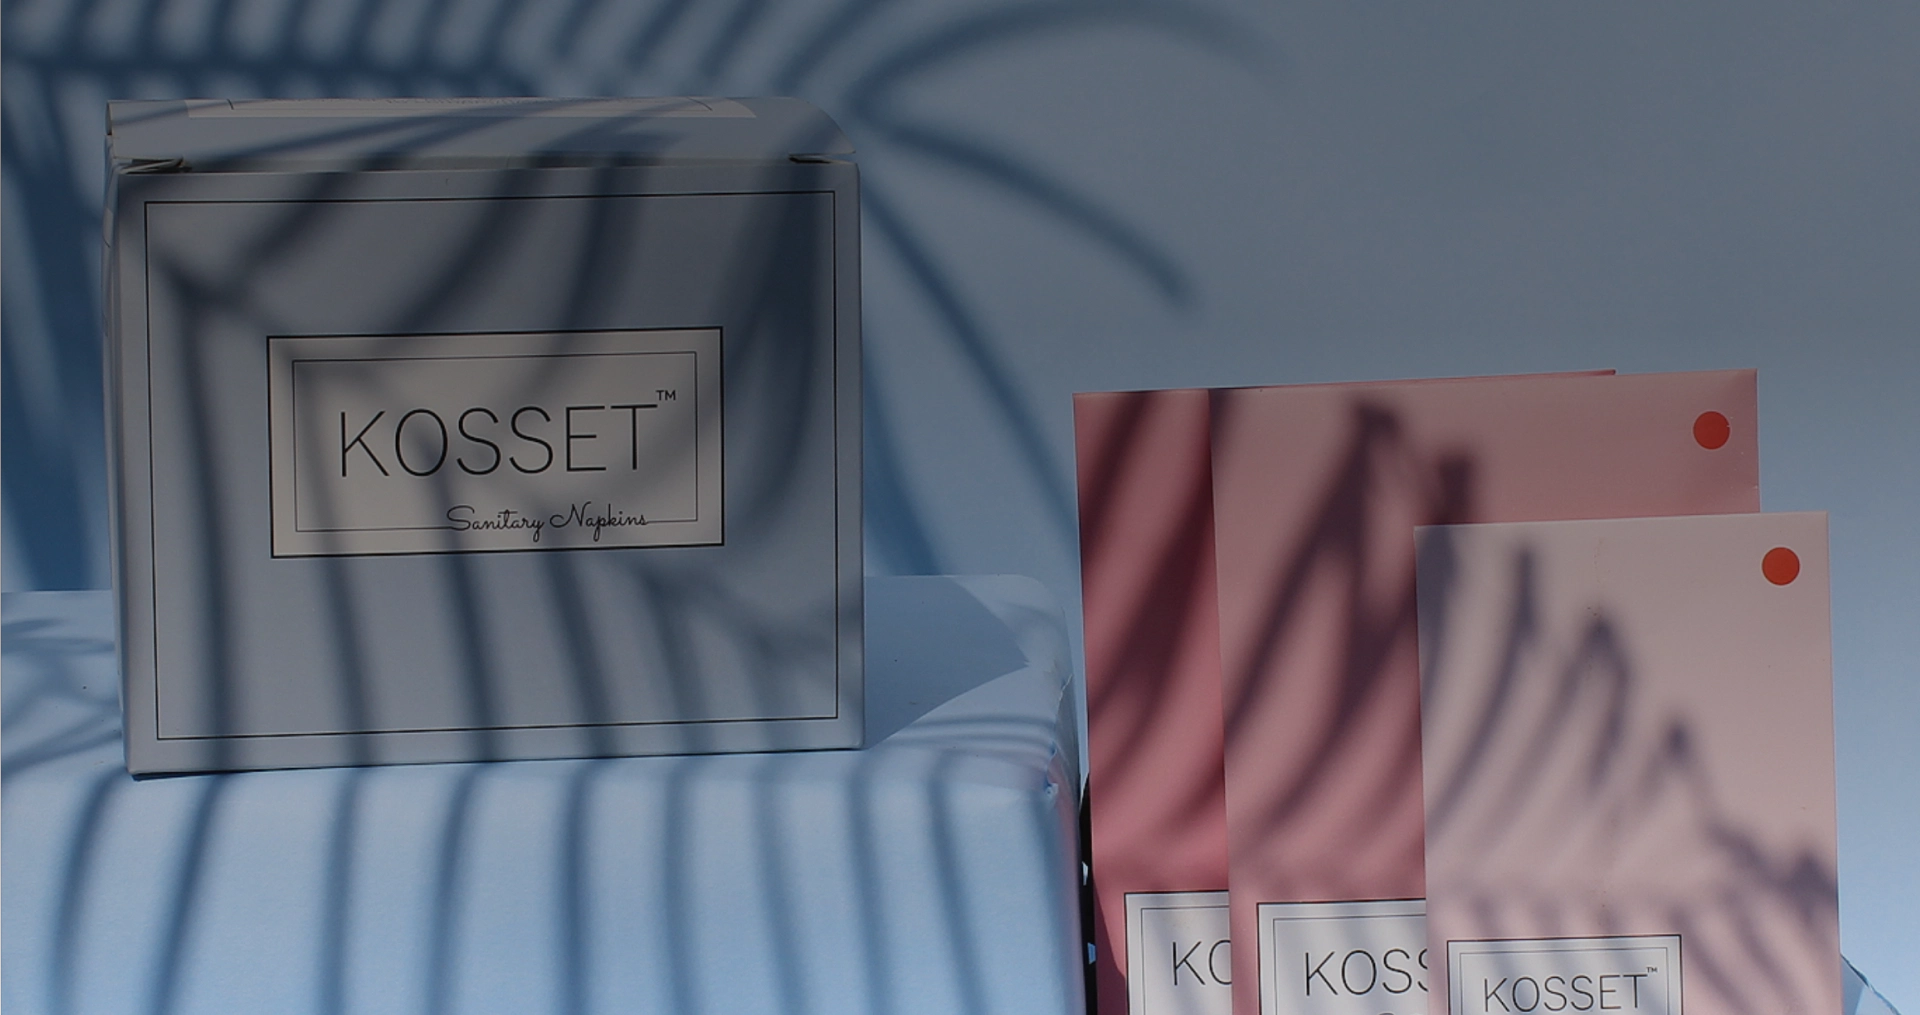
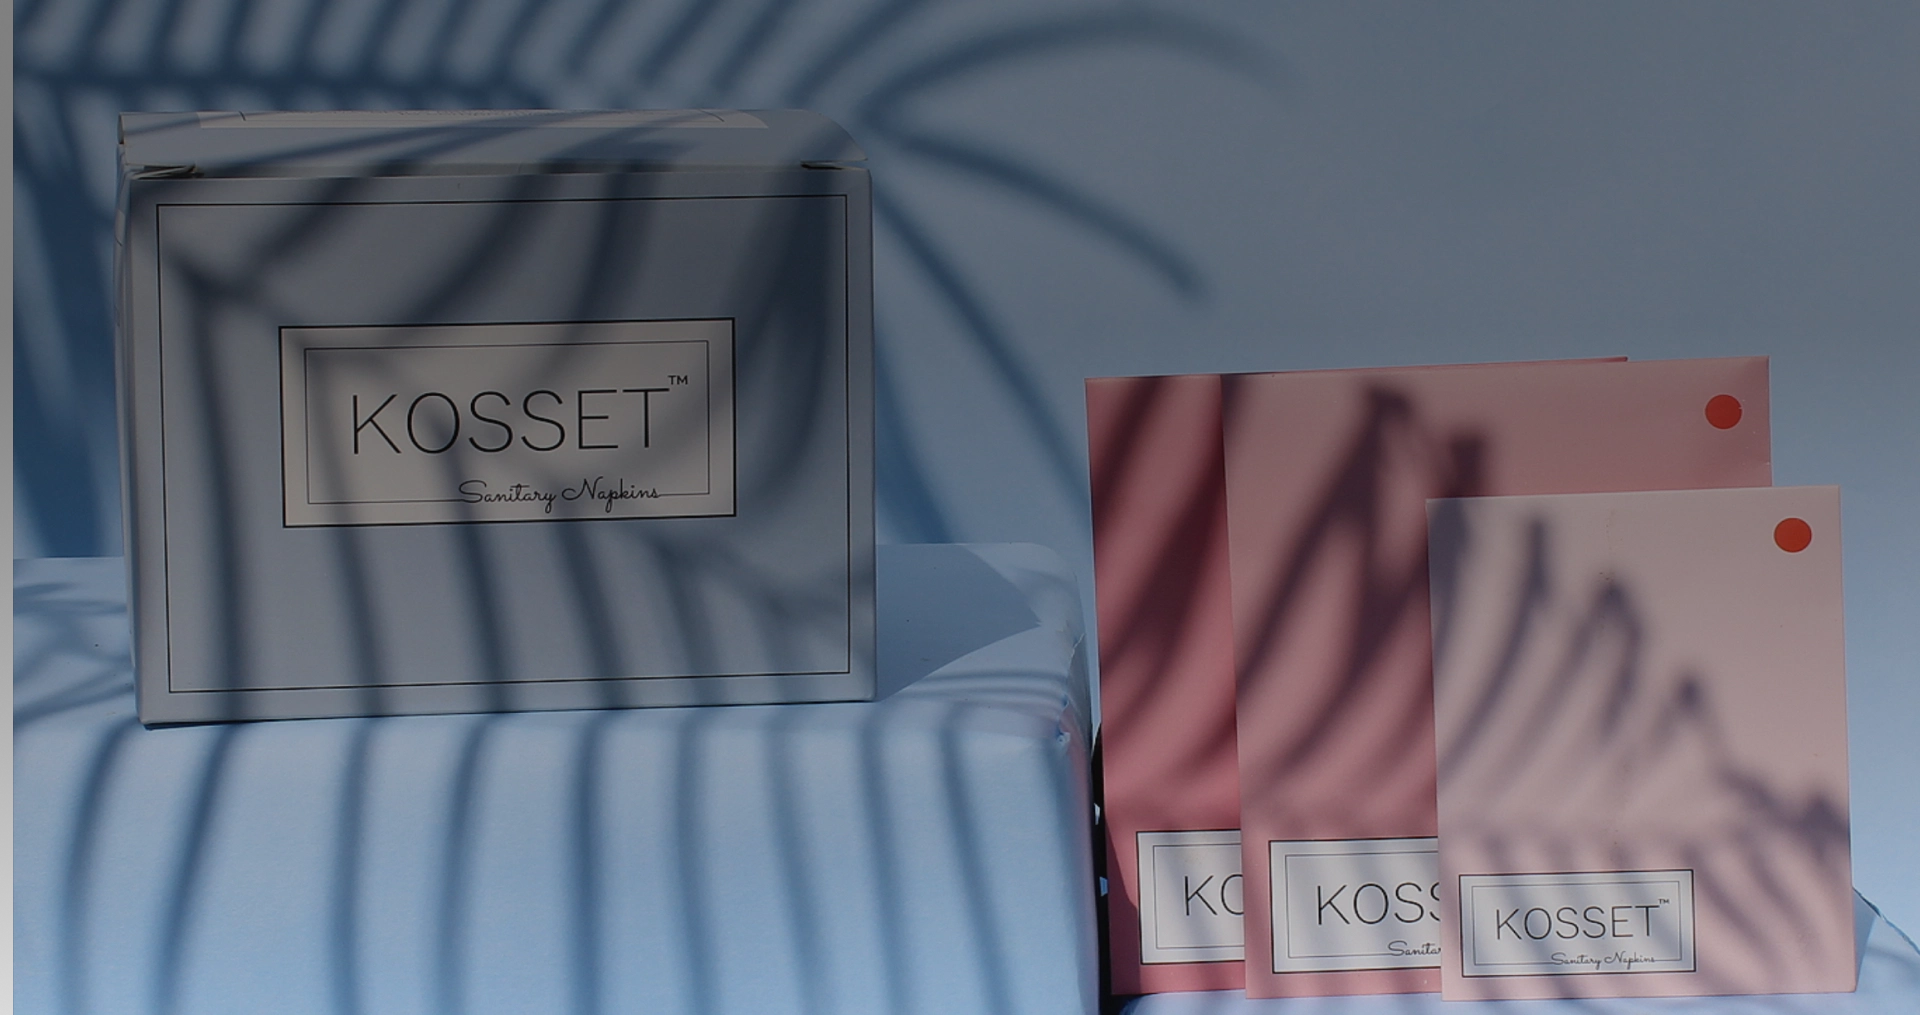
Herobg change and new herobg for mobile

Changed region(s): [[0.0, 0.0, 1.0, 1.0], [0.1562, 0.9163, 0.1875, 1.0]]

diff --git a/src/styles/components/Hero.scss b/src/styles/components/Hero.scss
@@ -3,7 +3,7 @@
   height: 100vh;
   background: url("/static/img/herobg.webp");
   // background-attachment: fixed;
-  background-position: center;
+  background-position: center bottom 0.5px;
   background-size: cover;
   background-repeat: no-repeat;
   color: white;

diff --git a/src/styles/components/MediaQueries.scss b/src/styles/components/MediaQueries.scss
@@ -14,6 +14,12 @@
     padding: 0 1.5rem !important;
   }
 
+  .hero{
+    height: 95vh;
+    background: url("/static/img/herobgM.webp");
+    background-position: right bottom 0.2px;
+
+  }
   .heroLeadLine {
     font-size: 1rem;
   }

diff --git a/src/app.js b/src/app.js
@@ -37,7 +37,7 @@ $(document).scroll((e)=>{
     else
         $(".navbar").removeClass("navbar-black")
 })
-
+//help
 
 
 app.auth().onAuthStateChanged(function (user) {
